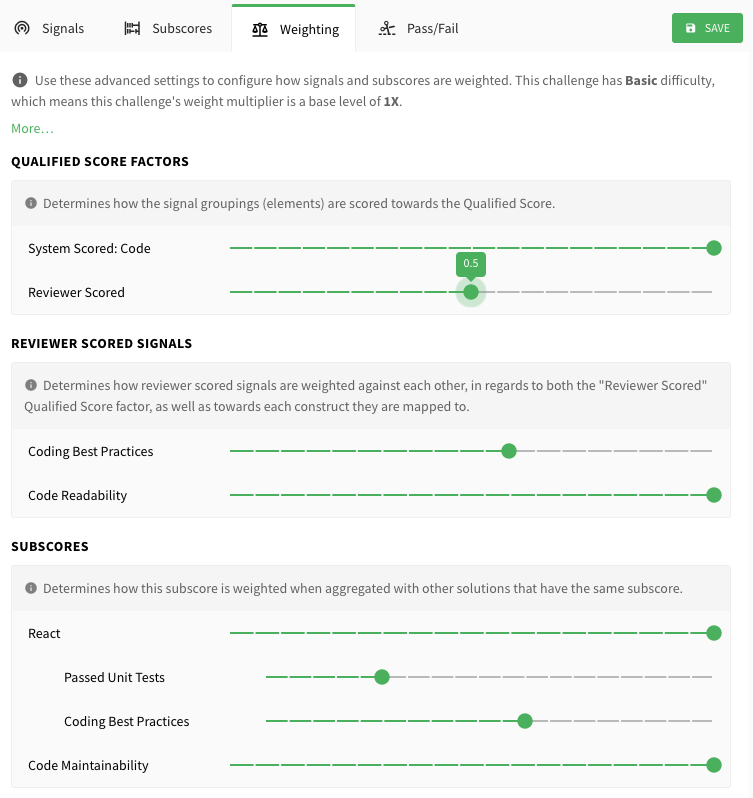
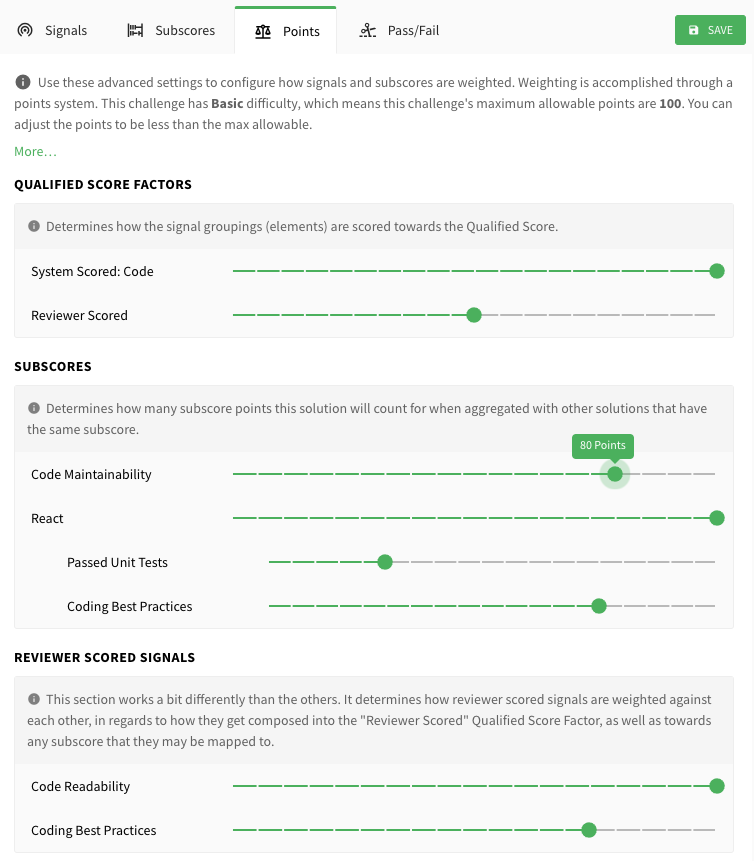
Doc updates to go with new points based weighting

diff --git a/content/creating-content/evidence-engine/evidence-scoring.md b/content/creating-content/evidence-engine/evidence-scoring.md
@@ -25,7 +25,7 @@ The concern here is that the criteria defined for the test may not be 100% relev
 
 Qualified's approach is to provide a score that indicates performance related to the specific challenges given. For example you might give one candidate an easy assessment only focusing on basic knowledge, and they could score high on the assessment. Let's say a Qualified Score of `9.5`. Another candidate who is applying for a more senior role is given a harder assessment on the same topics as the first candidate, and also scores a `9.5`. Both candidates scored the same but the scores are not comparable to each other. These scores indicate that the candidates both did very well but what "well" means is relative to the assessments they were given. A good candidate for one role may not necessary be a good candidate for another. 
 
-An evidence-driven approach allows your team to understand how well a candidate has done within your evaluation process. Candidates who go through the same process can be compared to each other, and candidates who perform poorly can quickly be identified. Candidates who go through a different process cannot be compared to each other. The evidence-driven approach is not focused on trying to categorized candidates into different performance categories. It instead focuses on finding candidates who can do the work, and then of those candidates, determining which show the most promise.
+An evidence-driven approach allows your team to understand how well a candidate has done within your evaluation process. Candidates who go through the same process can be compared to each other, and candidates who perform poorly can quickly be identified. Candidates who go through a different process cannot be compared to each other. The evidence-driven approach is not focused on trying to categorized candidates into different performance categories. It instead focuses on finding candidates who can do the work for a given role, and then of those candidates, determining which show the most promise.
 
 ### Fluid Scoring & Confidence
 The Qualified Score is fluid, in that as more information is collected, the score can change. For this reason, in addition to the Qualified Score there is a **Qualified Score Confidence** value. You can see this value on the Report Card, and within the tooltip shown as you hover over the score within the UI.
@@ -37,12 +37,18 @@ In addition to the Qualified Score itself, which is a means of ranking the highe
 
 Cut scores will be covered in [more detail later](/creating-content/evidence-engine/cut-scores). For now just know that cut scores provide the ability to call out candidates who fail to meet your standards. Those standards can be configured according to your team's needs. 
 
-### Weighting
+### Adjustable Points
 
-We will cover weighting in [more detail later](/creating-content/evidence-engine/weighting), but let's quickly cover the fact that each signal on a challenge carries a weight, and that weight can be adjusted on a per signal basis. This results in signals having different levels of effect on the overall Qualified Score.
+We will cover points in [more detail later](/creating-content/evidence-engine/weighting), but let's quickly cover the fact that each signal on a challenge carries a max point value, and those points can be adjusted on a per signal basis. This results in signals having different levels of effect on the overall Qualified Score.
 
 :::important Challenge Difficulty
-It is also important to understand that challenge difficulty plays into weighting. The more difficult the challenge, the more the solution score will count towards the Qualified Score. This is because the difficulty acts as a weight modifier to each signal. 
+It is also important to understand that challenge difficulty plays into points. The more difficult the challenge, the more points that are allowed to be assigned to the signal. 
+:::
+
+The amount of points awarded for a signal is determined by the signal score percentage multiplied by the max allowed point value configured for the signal. 
+
+:::info Example
+The reviewer scored signal "Code Readability" is configured to count for a max of `150` points. It is rated "minor concern" which gives it a `50%` score. That signal will then have `75` out of 150 points. The same "Code Readability" signal is configured on another challenge, but is only assigned a max of `100` points. The candidate's solution is rated "Satisfactory", which gives it a `75%` score. That signal will have `75` out of 100 points. Combined, the candidate will have a score of `150` out of 250 points.   
 :::
 
 
@@ -57,7 +63,7 @@ Typically when referring to the Qualified Score within these docs and within the
 The reason why the score exists at multiple levels is because the scoring mechanism is the same. All signals related to a specific level are considered. So when a solution level score is determined, all submitted signals are factored together. When an assessment result level score is determined, all submitted signals are factored together in the same manner, meaning that solution scores aren't first calculated and then treated as a group. When a candidate score is calculated, all submitted signals are factored together – which assessment a solution belongs to is irrelevant.
 
 :::info Review
-To calculate the candidate Qualified Score, all related signals are rolled up into a flat list and then calculated based of their individual weights, regardless of which assessment they belong to. Signals are always weighted relative to their sibling signals. It is not possible to define weightings at an assessment level.  
+To calculate the candidate Qualified Score, all related signals are rolled up into a flat list and then calculated based of their individual points, regardless of which assessment they belong to. Signals are always weighted relative to their sibling signals. It is not possible to define weightings at an assessment level.  
 :::
 
 ### Qualified Score Factors
@@ -92,7 +98,7 @@ Multiple signals can be enabled within this grouping. Each challenge type has it
 
 ![Example partial list of reviewer scored signals](/images/creating-content/scorecard-signals.png)
 
-Later we will discuss weighting, which lets you define how each reviewer scored signal weights against others within this factor grouping. You can then define how the factor grouping weights against the other groupings.
+Later we will discuss points, which lets you define how each reviewer scored signal points weigh against others within this factor grouping. You can then define how the factor grouping weighs against the other groupings.
 
 ## Subscores
 

diff --git a/content/creating-content/evidence-engine/points.md b/content/creating-content/evidence-engine/points.md
@@ -1,0 +1,67 @@
+---
+order: 5
+---
+
+# Points & Weighting
+
+Points are one of the advanced configuration features offered that allows you to customize how much a given signal impacts the Qualified Score and related Subscores. This is done by assigning a max number of points that a signal, subscore or score factor can count as. 
+
+For example, you might assign "Passed Unit Tests" `100` max points but only assign "Review Scorecard" `50` max points. 
+
+![Adjustable points configuration view](/images/creating-content/evidence-weighting.png)
+
+## Challenge Difficulty
+Before getting into assigning points to signals themselves, let's quickly cover how challenge difficulty affects things. The configuration screen predetermines the maximum amount of points that you can assign an item. This amount is determined by the challenge's difficulty.  
+
+The following is the list of how each difficulty determines the max points that can be configured:
+
+| Difficulty | Max Points |
+| ---------- | ---------- |
+|Basic       |100          |
+|Intermediate|200          |
+|Advanced    |400          |
+|Advanced (Brutal)|800     |
+
+By default, if you do not configure anything on the "Points" tab, then every configurable item will be assigned the maximum points. You have the option through this screen to reduce the points allowed on a per item basis.  
+
+## Configuration Sections
+
+Points are useful for allowing you to weight items differently. Weighting comes in when points get aggregated with other signals. How points get aggregated works differently depending on the section being configured. 
+
+Let's cover the three sections and how they affect scoring.
+
+### Qualified Score Factors
+This is the section most relevant to how points affects the Qualified Score. Regardless of any other value from the other sections, the values in this section affect how much of the score gets allocated to the various signal factor groupings. 
+
+By default, everything is assigned maximum points, so because they are the same point values, they are weighted equally. If you have both a `System Scored: Code` factor group, and also a `Reviewer Scored` factor group (that contains 2 different signals), by default each of these factor groups will count for 50% of the Qualified Score for the solution, since there are two groups.
+
+Since challenge difficulty affects maximum point values, if you have two challenges that are configured exactly the same, but one is more difficult, then the more difficult one will count for at least twice as much as the other in terms of affecting the candidate's Qualified Score.
+
+### Reviewer Scored Signals
+This section deals with how the points within the `Reviewer Scored` factor group get weighted. While the group itself might count for 50% of the total Qualified Score, you might want a signal within that group to count for less of that 50%.
+
+Therefore the points associated with Reviewer Scored Signals are focused on determining how each reviwer scored signal affects the overall "Reviewer Scored" factor. 
+
+:::info Example
+"Code Readability" and "Coding Best Practices" are configured as reviewer scored signals. This results in two Qualified Score Factors: "System Scored: Code" and "Reviewer Scored". The score factors are both left at 100 points (the maximum points allowed for a basic challenge). This means a reviewer scorecard can only ever affect up to 50% of the total Qualified Score for the solution. However you want "Code Readability" to count for more of that 50% then "Coding Best Practices". So you set "Code Readability" to `100` points, and "Coding Best Practices" to `50` points. That is `150` points total. Those `150` points will be calculated and from that a "Reviewer Scored" value will be determined, of which has been assigned a maximum of `100` points. 
+
+If a candidate is rated 50% for "Coding Best Practices" and 100% for "Code Readability", they would score `125` points out of `150` points total, which gives them a "Reviewer Scored" value of `83` out of `100` points.
+:::
+
+### Subscores
+This section deals with subscores. This section is a bit more advanced, in that it possibly contains sub-points as well. Let's discuss the subscore root weighting first.
+
+![Root vs sub-weightings for example "React" subscore](/images/creating-content/evidence-weighting-subscores.png)
+
+#### Root Points
+The root points are only relevant when aggregating solutions within an assessment result or candidate Qualified Score. It affects how much this challenge's subscore affects the aggregate subscore. Within the solution itself, these points will have no affect.
+
+#### Signal Sub-Weightings
+These points affect the root points. For example, in the figure at the top of this article we have a "React" subscore which has "Passed Unit Tests" and "Coding Best Practices" as signals. This is because both signals have been mapped to the subscore. In this case we may decide we want "Coding Best Practices" to only be worth 30% of the "React" subscore. 
+
+The points defined here determine acts as weightings for the subscore value, and the root points determines how that subscore value gets weighted against the same subscore on other solutions.
+
+:::important
+It is not possible to weight reviewer scored signals differently across different subscores.
+:::
+
